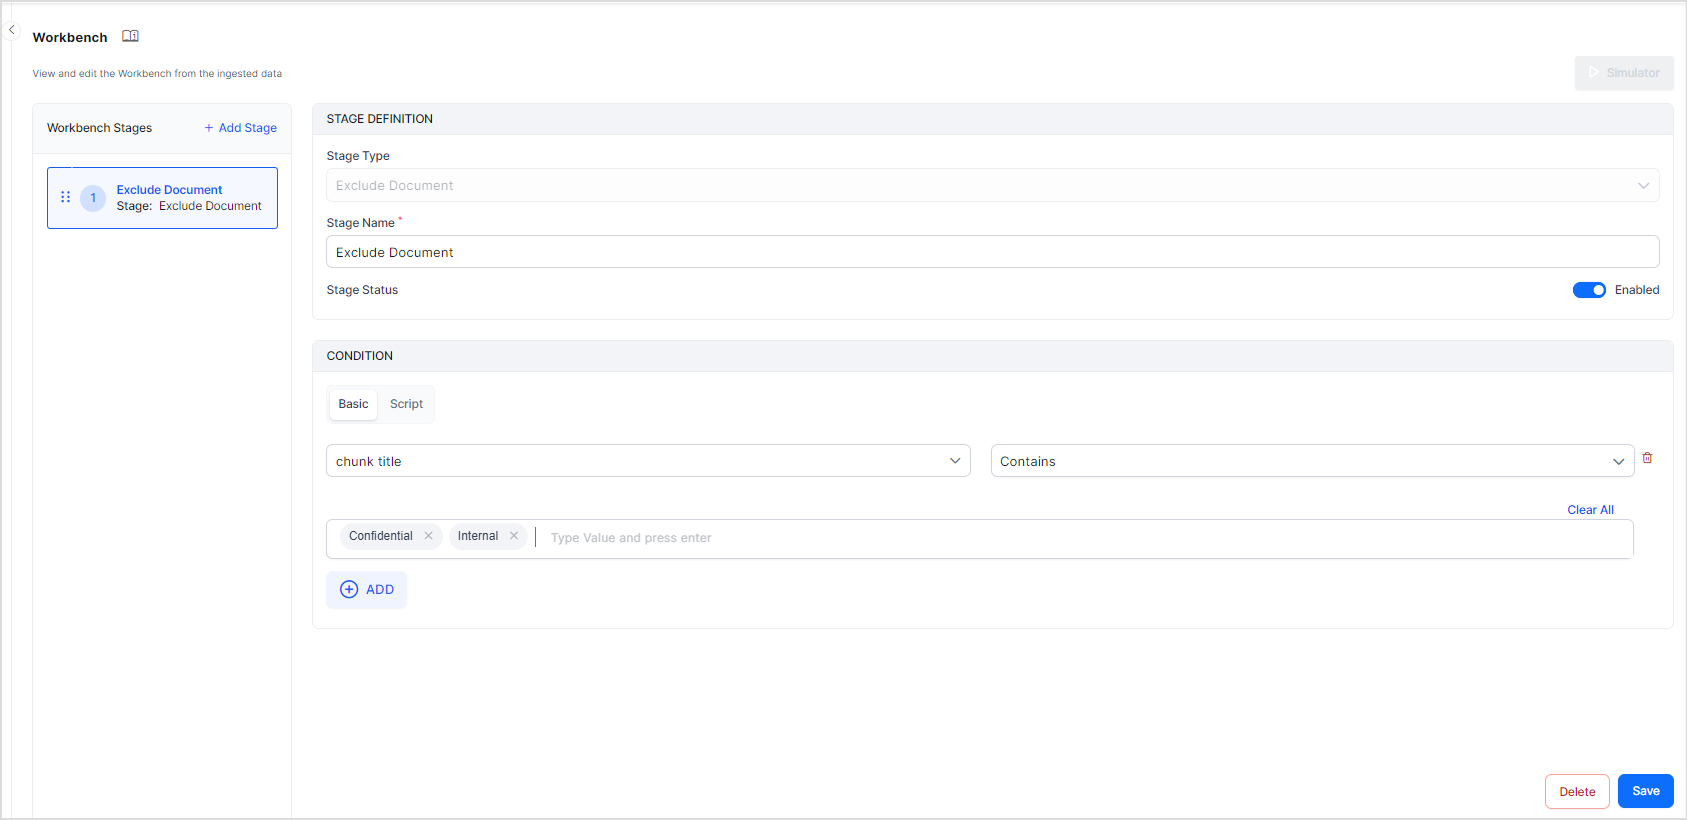
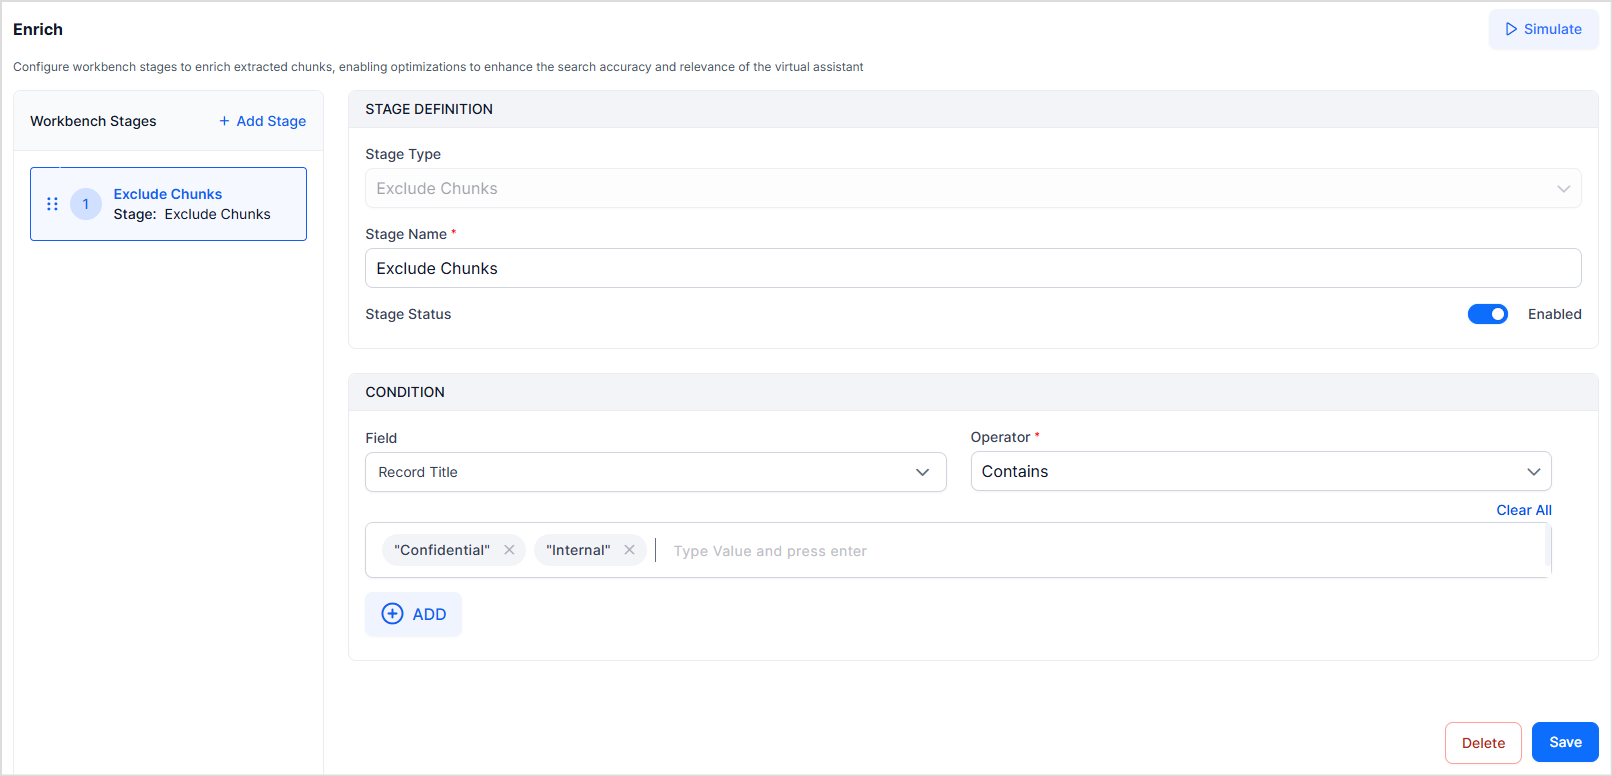
Workbench updates for conditions.

diff --git a/docs/xo/searchai/workbench/custom-script.md b/docs/xo/searchai/workbench/custom-script.md
@@ -11,7 +11,9 @@ Use the following properties to configure this stage.
 
 * Stage Type: Set this field to Custom Script
 * Stage Name: Set a unique name for the stage.
-* Condition: Define a condition for selecting the documents. Use the basic or script mode to define the condition. You can define any number of conditions with the `AND` operator between the conditions to find the exact set of data to be excluded. For example, if you want to process only file content, use the following script as the condition.
+* Outcome: Write the custom Javascript to filter and enrich chunks. Use this script to add custom fields, modify content, or conditionally process chunks based on your specific requirements.
+
+Example1: Filtering of content - process only chunks from uploaded files.
 
 ```javascript
 if(context.sys_content_type.equals("file"))
@@ -24,17 +26,21 @@ else
 }
 ```
 
-* Outcome: Define the outcome of the stage using the Painless script. For example, if you want the count of the total number of pages in a given file, you can write a script as shown below.
-
+Example 2: Split the content as sentences.
 
 ```javascript
-int temp_total_pages = 0;
-if(context.file_content_obj != null){
-  for (def item: context.file_content_obj) {
-    if (item!="") {
-       temp_total_pages = temp_total_pages+1;
-      }
-  }
-}
-context.total_pages = temp_total_pages;
+context.cfs2 = context.chunkText.split( /[.!?]+[ ]/);
 ```
+
+Example 3: Remove unnecessary content from web pages.
+
+```javascript
+if (context.chunkText) {
+    // Remove header/footer page numbers (e.g., "Page 5 of 20")
+    context.chunkText = context.chunkText.replace(/Page\s+\d+\s+of\s+\d+/gi, '');
+    
+    //Remove social sharing text, if any.
+    context.chunkText = context.chunkText.split(/Share\s*Twitter/i)[0].trim();
+}
+```
+

diff --git a/docs/xo/searchai/workbench/field-mapping.md b/docs/xo/searchai/workbench/field-mapping.md
@@ -18,9 +18,9 @@ The Field Mapping stage can be defined using the following three properties:
 1. **STAGE DEFINITION**
     1. Stage Type: This property is automatically set to ‘Field Mapping’.
     2. Stage Name: Provide a unique name for identification of the stage. 
-2. **CONDITION** states the rules or criteria to select the data on which field mapping is to be performed. You can add one or more rules to select the dataset. There are two ways of defining the condition for the mapping: **Basic** and **Script**. When using the Script, you can provide a custom script to add your condition for field mapping. When using the Basic method, you can define a condition using the following two properties. 
+2. **CONDITION** states the rules or criteria to select the data on which field mapping is to be performed. You can add one or more rules to select the dataset. Define a condition using the following two properties. 
     1. Field Name: Fields of a chunk on which the rule is to be applied.
-    2. Operator: Condition to be applied on the selected field. 
+    2. Operator: Condition to be applied on the selected field. Based on the chosen operator, provide the value field for comparison with the selected field.
 3. **OUTCOME** states the operation to be performed when the above conditions are satisfied. 
     1. Action: Action to be taken if the above condition is true. This can take the following values:
         * Set - Sets the given value as the value of the target field. 

diff --git a/docs/xo/searchai/workbench/exclude-document.md b/docs/xo/searchai/workbench/exclude-document.md
@@ -1,16 +1,16 @@
-# Exclude Document
+# Exclude Chunks
 
-The Exclude Document stage prevents specific documents from being processed in the Workbench. When documents meet the defined exclusion condition, the system ignores them and doesn't index them.
+The Exclude Chunks stage prevents specific chunks from being processed in the Workbench. When chunks meet the defined exclusion condition, the system ignores them and doesn't index them.
 
 Use this stage to filter out unwanted or irrelevant content before it enters the indexing pipeline.
 
-## Exclude Document Configuration
+## Exclude Chunk Configuration
 
 Use the following properties to configure this stage.
 
-* Stage Type: Set this field to Exclude Document type
+* Stage Type: Set this field to Exclude Chunk type
 * Stage Name: Set a unique name for the stage.
-* Condition: Define a condition to select the documents to be excluded from processing. Use the basic or script mode to define the condition. You can define any number of conditions with the AND operator between the conditions to find the exact set of data to be excluded. 
+* Condition: Define conditions to selectively exclude chunks from indexing based on specific criteria. Create one or more conditions using chunk fields and operators. Multiple conditions are combined with AND logic (all conditions must be true to exclude).
 
 For example, to exclude all the files with the keyword ‘Confidential’ in the title, add the condition as shown below. 
 
